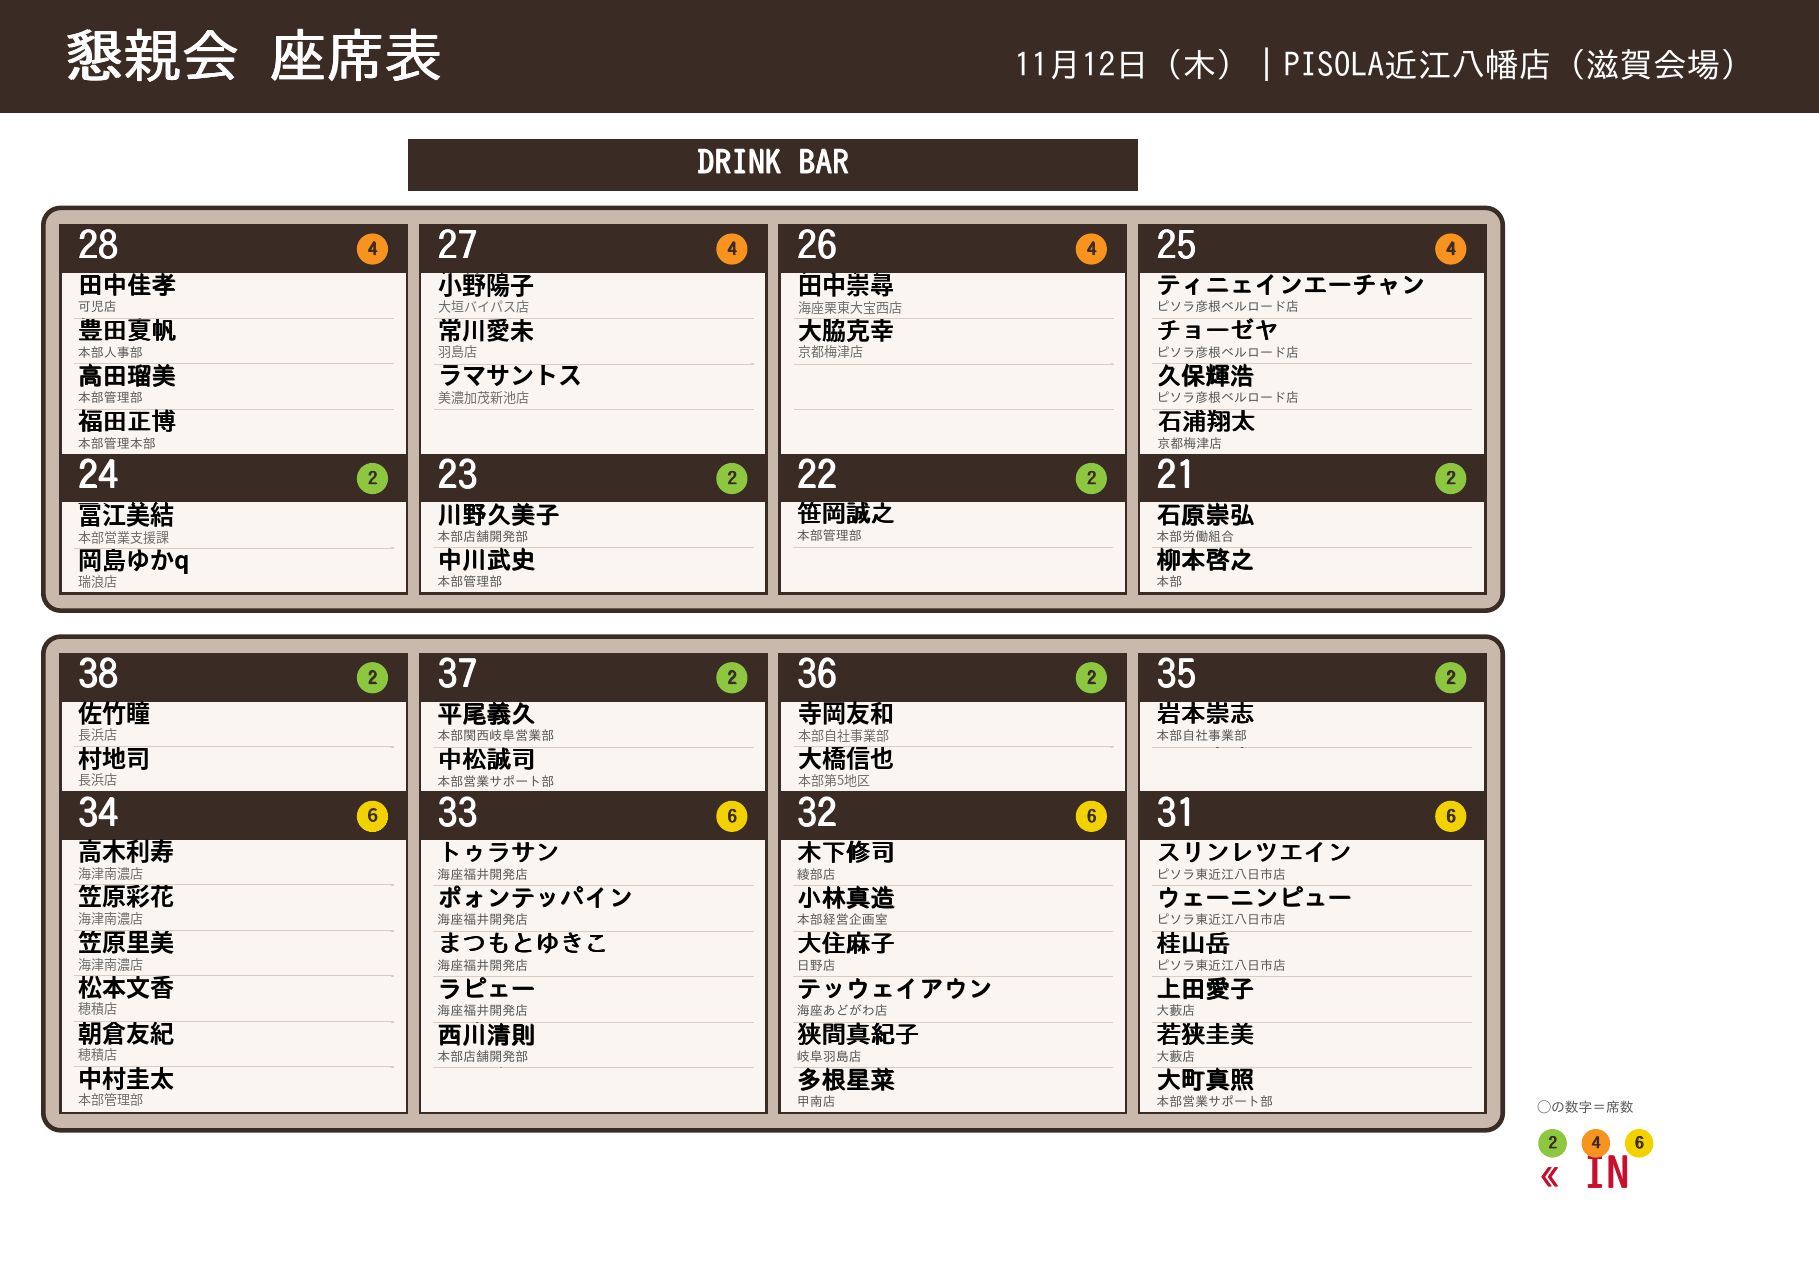
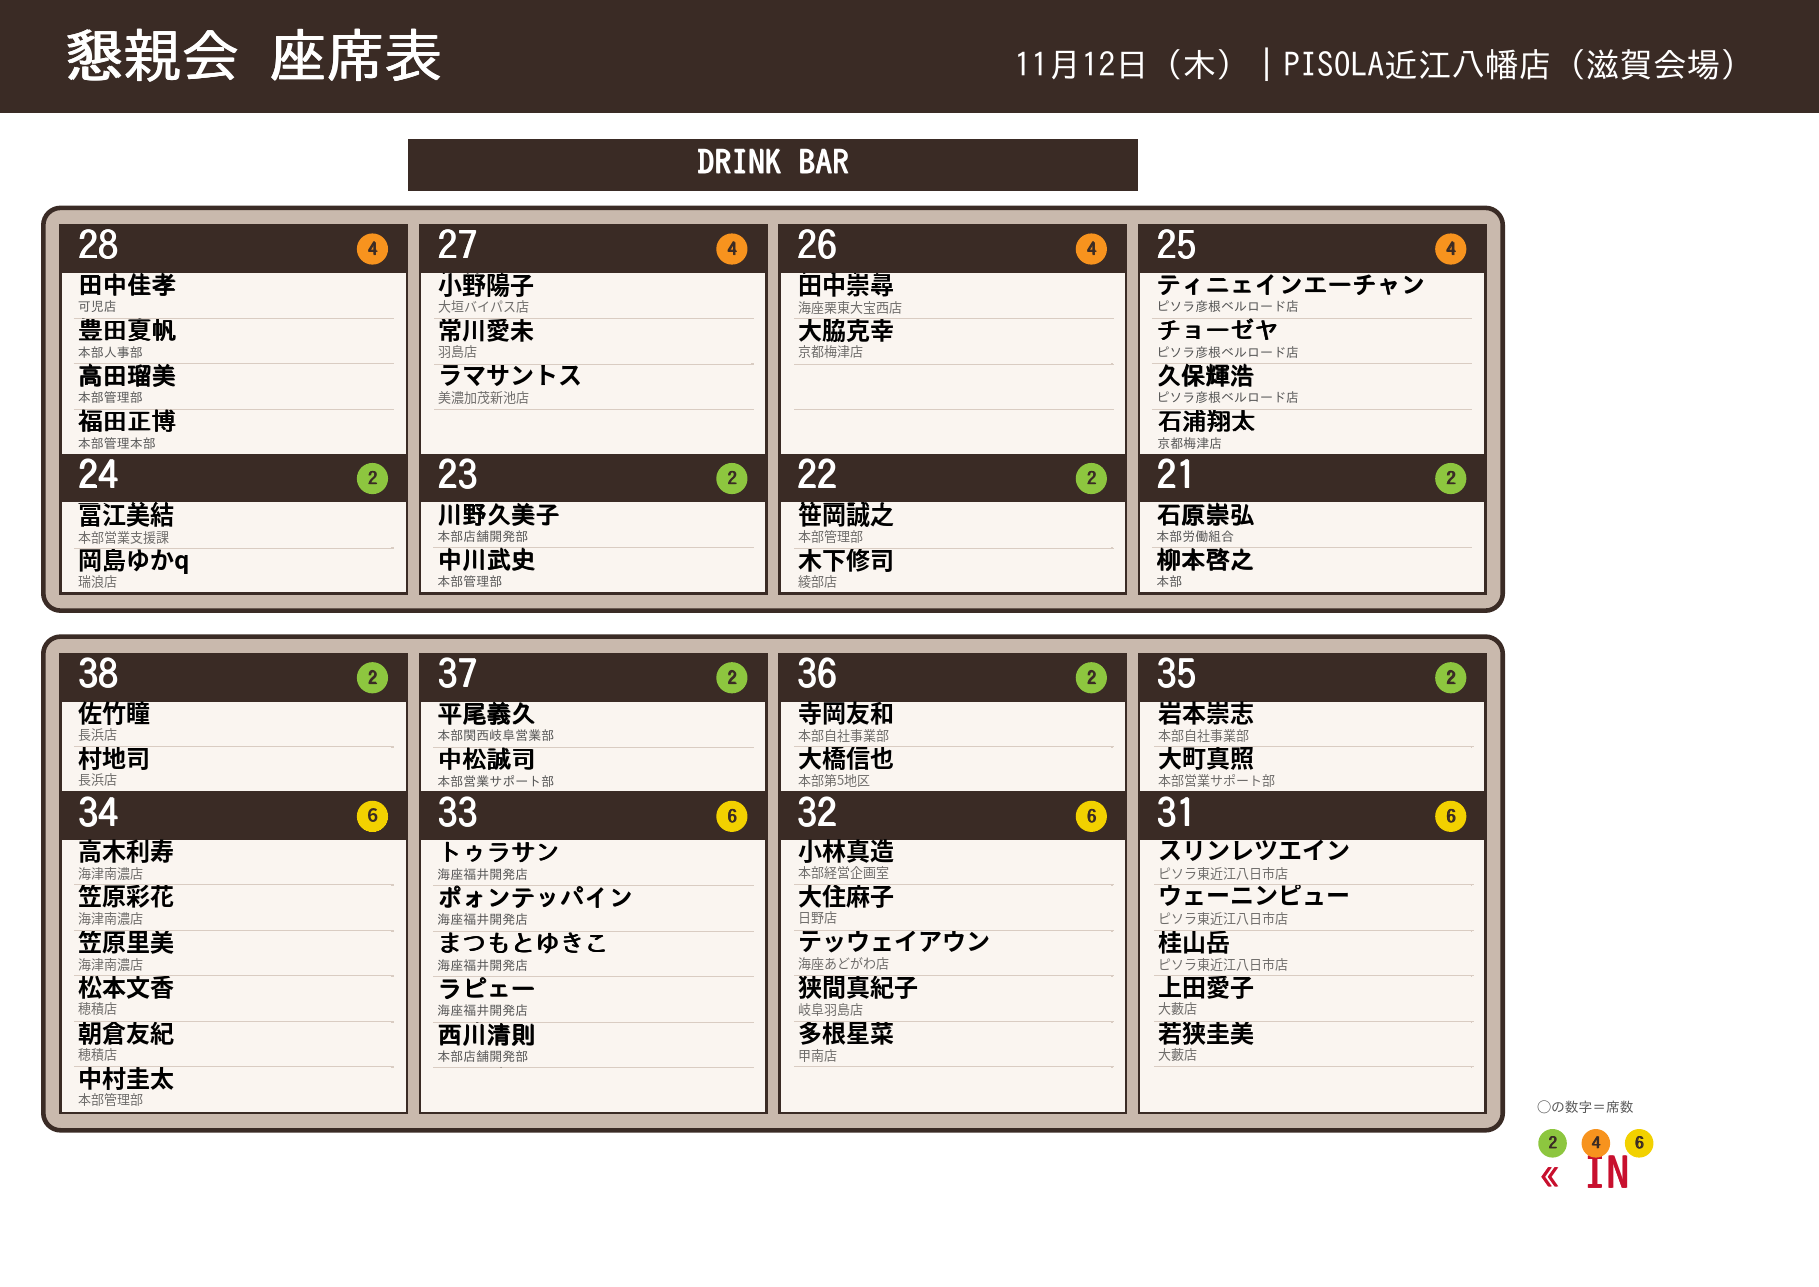
東近江 座席表: 木下さんを卓22、大町さんを卓35へ移動
Claude-Session: https://claude.ai/code/session_016S7BsdprV6RyeLYBMubC7b

diff --git a/event/higashiomi/index.html b/event/higashiomi/index.html
@@ -146,7 +146,7 @@ footer{text-align:center;font-size:13px;color:#666;padding:20px 12px 40px}
 <script>
 var SURVEY_URL="https://forms.gle/e9n7PZBZQ5QafZvP6";   // ←アンケート確定後にここへURLを入れる
 var TEAM=[{"label": "T1", "court": "", "members": ["岡島由加里（瑞浪）", "村地司（長浜）", "上田愛子（大藪）"], "games": ["1回目　13:30〜13:48　コート1　対 T16", "2回目　13:51〜14:09　コート1　対 T15", "3回目　14:12〜14:30　コート1　対 T14"]}, {"label": "T2", "court": "", "members": ["寺岡友和（自社事業部）", "ウェーニンピュー（ピソラ東近江八日市）", "スリンレツエイン（ピソラ東近江八日市）"], "games": ["1回目　13:30〜13:48　コート2　対 T15", "2回目　13:51〜14:09　コート3　対 T13", "3回目　14:12〜14:30　コート4　対 T11"]}, {"label": "T3", "court": "", "members": ["中川武史（管理部）", "朝倉友紀（穂積）", "高木利寿（海津南濃）"], "games": ["1回目　13:30〜13:48　コート3　対 T14", "2回目　13:51〜14:09　コート4　対 T12", "3回目　14:12〜14:30　コート5　対 T10"]}, {"label": "T4", "court": "", "members": ["冨江美結（営業支援課）", "笠原彩花（海津南濃）", "はざまゆな（垂井）"], "games": ["1回目　13:30〜13:48　コート4　対 T13", "2回目　13:51〜14:09　コート5　対 T11", "3回目　14:12〜14:30　コート6　対 T9"]}, {"label": "T5", "court": "", "members": ["西川清則（店舗開発部）", "チョーゼヤ（ピソラ彦根ベルロード）", "ティニエインエーチャン（ピソラ彦根ベルロード）"], "games": ["1回目　13:30〜13:48　コート5　対 T12", "2回目　13:51〜14:09　コート6　対 T10", "3回目　14:12〜14:30　コート7　対 T8"]}, {"label": "T6", "court": "", "members": ["ラマサントス（美濃加茂新池）", "木下修司（綾部）", "大町真照（営業サポート部）"], "games": ["1回目　13:30〜13:48　コート6　対 T11", "2回目　13:51〜14:09　コート7　対 T9", "3回目　14:12〜14:30　コート8　対 T7"]}, {"label": "T7", "court": "", "members": ["ポォンテッパイン（海座福井開発）", "田中崇尋（海座栗東大宝西）", "福田正博（管理本部）"], "games": ["1回目　13:30〜13:48　コート7　対 T10", "2回目　13:51〜14:09　コート8　対 T8", "3回目　14:12〜14:30　コート8　対 T6"]}, {"label": "T8", "court": "", "members": ["佐竹瞳（長浜）", "笠原里美（海津南濃）", "小林真造（経営企画室）"], "games": ["1回目　13:30〜13:48　コート8　対 T9", "2回目　13:51〜14:09　コート8　対 T7", "3回目　14:12〜14:30　コート7　対 T5"]}, {"label": "T9", "court": "", "members": ["大住麻子（日野）", "まつもとゆきこ（海座福井開発）", "高田瑠美（管理部）"], "games": ["1回目　13:30〜13:48　コート8　対 T8", "2回目　13:51〜14:09　コート7　対 T6", "3回目　14:12〜14:30　コート6　対 T4"]}, {"label": "T10", "court": "", "members": ["石浦翔太（京都梅津）", "ラピェー（海座福井開発）", "中松誠司（営業サポート部）"], "games": ["1回目　13:30〜13:48　コート7　対 T7", "2回目　13:51〜14:09　コート6　対 T5", "3回目　14:12〜14:30　コート5　対 T3"]}, {"label": "T11", "court": "", "members": ["松本文香（穂積）", "トゥラサン（海座福井開発）", "平尾義久（関西岐阜営業部）"], "games": ["1回目　13:30〜13:48　コート6　対 T6", "2回目　13:51〜14:09　コート5　対 T4", "3回目　14:12〜14:30　コート4　対 T2"]}, {"label": "T12", "court": "", "members": ["テッウェイアウン（海座あどがわ）", "小野陽子（大垣バイパス）", "柳本啓之（本部）"], "games": ["1回目　13:30〜13:48　コート5　対 T5", "2回目　13:51〜14:09　コート4　対 T3", "3回目　14:12〜14:30　コート3　対 T16"]}, {"label": "T13", "court": "", "members": ["常川愛未（羽島）", "久保龍輝（奈良鴻ノ池）", "川野久美子（店舗開発部）"], "games": ["1回目　13:30〜13:48　コート4　対 T4", "2回目　13:51〜14:09　コート3　対 T2", "3回目　14:12〜14:30　コート2　対 T15"]}, {"label": "T14", "court": "", "members": ["大脇克幸（京都梅津）", "多根星菜（甲南）", "中村圭太（管理部）"], "games": ["1回目　13:30〜13:48　コート3　対 T3", "2回目　13:51〜14:09　コート2　対 T16", "3回目　14:12〜14:30　コート1　対 T1"]}, {"label": "T15", "court": "", "members": ["豊田夏帆（人事部）", "木村圭吾（八日市）", "桂山岳（ピソラ東近江八日市）"], "games": ["1回目　13:30〜13:48　コート2　対 T2", "2回目　13:51〜14:09　コート1　対 T1", "3回目　14:12〜14:30　コート2　対 T13"]}, {"label": "T16", "court": "", "members": ["久保輝浩（ピソラ彦根ベルロード）", "岩本崇志（自社事業部）", "田中佳孝（可児）"], "games": ["1回目　13:30〜13:48　コート1　対 T1", "2回目　13:51〜14:09　コート2　対 T14", "3回目　14:12〜14:30　コート3　対 T12"]}];
-var SEAT={"28": {"seats": 4, "names": ["田中佳孝", "豊田夏帆", "高田瑠美", "福田正博"]}, "27": {"seats": 4, "names": ["小野陽子", "常川愛未", "ラマサントス"]}, "26": {"seats": 4, "names": ["田中崇尋", "大脇克幸"]}, "25": {"seats": 4, "names": ["ティニェインエーチャン", "チョーゼヤ", "久保輝浩", "石浦翔太"]}, "24": {"seats": 2, "names": ["冨江美結", "岡島ゆかq"]}, "23": {"seats": 2, "names": ["川野久美子", "中川武史"]}, "22": {"seats": 2, "names": ["笹岡誠之"]}, "21": {"seats": 2, "names": ["石原崇弘", "柳本啓之"]}, "38": {"seats": 2, "names": ["佐竹瞳", "村地司"]}, "37": {"seats": 2, "names": ["平尾義久", "中松誠司"]}, "36": {"seats": 2, "names": ["寺岡友和", "大橋信也"]}, "35": {"seats": 2, "names": ["岩本崇志"]}, "34": {"seats": 6, "names": ["高木利寿", "笠原彩花", "笠原里美", "松本文香", "朝倉友紀", "中村圭太"]}, "33": {"seats": 6, "names": ["トゥラサン", "ポォンテッパイン", "まつもとゆきこ", "ラピェー", "西川清則"]}, "32": {"seats": 6, "names": ["木下修司", "小林真造", "大住麻子", "テッウェイアウン", "狭間真紀子", "多根星菜"]}, "31": {"seats": 6, "names": ["スリンレツエイン", "ウェーニンピュー", "桂山岳", "上田愛子", "若狭圭美", "大町真照"]}};
+var SEAT={"28": {"seats": 4, "names": ["田中佳孝", "豊田夏帆", "高田瑠美", "福田正博"]}, "27": {"seats": 4, "names": ["小野陽子", "常川愛未", "ラマサントス"]}, "26": {"seats": 4, "names": ["田中崇尋", "大脇克幸"]}, "25": {"seats": 4, "names": ["ティニェインエーチャン", "チョーゼヤ", "久保輝浩", "石浦翔太"]}, "24": {"seats": 2, "names": ["冨江美結", "岡島ゆかq"]}, "23": {"seats": 2, "names": ["川野久美子", "中川武史"]}, "22": {"seats": 2, "names": ["笹岡誠之", "木下修司"]}, "21": {"seats": 2, "names": ["石原崇弘", "柳本啓之"]}, "38": {"seats": 2, "names": ["佐竹瞳", "村地司"]}, "37": {"seats": 2, "names": ["平尾義久", "中松誠司"]}, "36": {"seats": 2, "names": ["寺岡友和", "大橋信也"]}, "35": {"seats": 2, "names": ["岩本崇志", "大町真照"]}, "34": {"seats": 6, "names": ["高木利寿", "笠原彩花", "笠原里美", "松本文香", "朝倉友紀", "中村圭太"]}, "33": {"seats": 6, "names": ["トゥラサン", "ポォンテッパイン", "まつもとゆきこ", "ラピェー", "西川清則"]}, "32": {"seats": 6, "names": ["小林真造", "大住麻子", "テッウェイアウン", "狭間真紀子", "多根星菜"]}, "31": {"seats": 6, "names": ["スリンレツエイン", "ウェーニンピュー", "桂山岳", "上田愛子", "若狭圭美"]}};
 (function(){
  var a=document.getElementById('sv');
  if(SURVEY_URL){a.href=SURVEY_URL;a.className='survey';a.textContent='📝 アンケートに答える（11/15まで）';}
